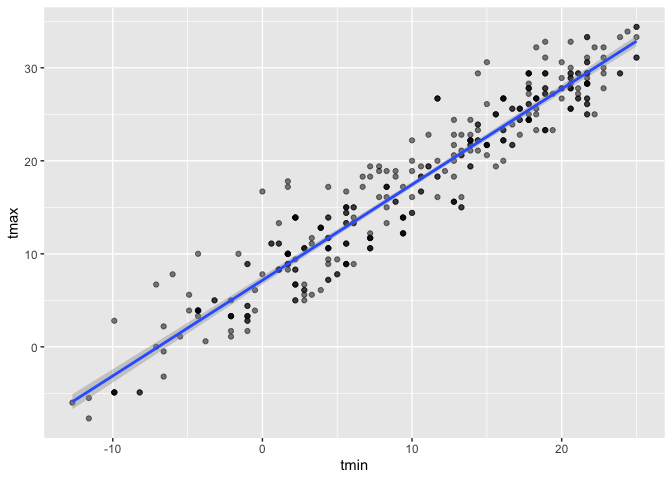
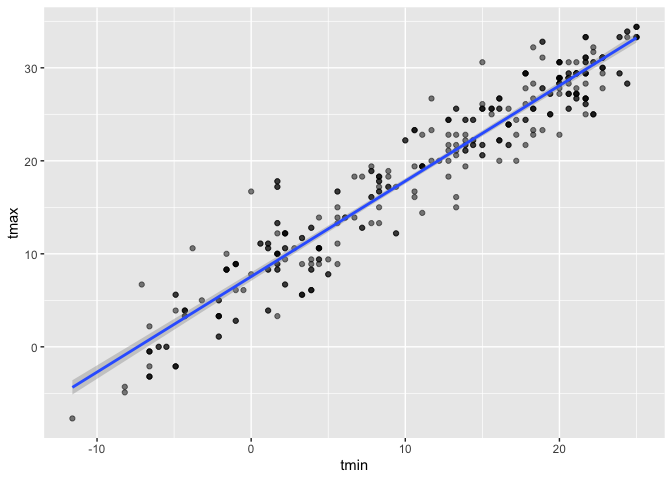
adding more details and comments

diff --git a/p8105_hw6_yg2762.md b/p8105_hw6_yg2762.md
@@ -105,6 +105,9 @@ cv_df_plot
 
 ![](p8105_hw6_yg2762_files/figure-gfm/unnamed-chunk-7-1.png)<!-- -->
 
+According to the cross validation results, `model_3`is the best model
+for the data compared to the other two.
+
 ## Problem 2
 
 ``` r
@@ -132,22 +135,12 @@ weather_df =
     ## file min/max dates: 1869-01-01 / 2021-11-30
 
 ``` r
-lm(tmax ~ tmin, data = weather_df)
-```
-
-    ## 
-    ## Call:
-    ## lm(formula = tmax ~ tmin, data = weather_df)
-    ## 
-    ## Coefficients:
-    ## (Intercept)         tmin  
-    ##       7.209        1.039
-
-``` r
 boot_sample = function(df) {
   sample_frac(df, replace = TRUE)
 }
 ```
+
+### Check for the `boot_sample`
 
 ``` r
 boot_sample(weather_df) %>% 
@@ -158,7 +151,9 @@ boot_sample(weather_df) %>%
 
     ## `geom_smooth()` using formula 'y ~ x'
 
-![](p8105_hw6_yg2762_files/figure-gfm/unnamed-chunk-11-1.png)<!-- -->
+![](p8105_hw6_yg2762_files/figure-gfm/unnamed-chunk-10-1.png)<!-- -->
+
+### Run bootstrap
 
 ``` r
 boot_straps = 
@@ -179,15 +174,25 @@ r_results = boot_straps %>%
 
 ``` r
 r_results %>% 
-  summarise (
-    ci_lower = quantile(r.squared, 0.025), 
-    ci_upper = quantile(r.squared, 0.975))
+  ggplot(aes(x = r.squared)) + geom_density()
 ```
 
-    ## # A tibble: 1 × 2
-    ##   ci_lower ci_upper
-    ##      <dbl>    <dbl>
-    ## 1    0.894    0.927
+![](p8105_hw6_yg2762_files/figure-gfm/unnamed-chunk-13-1.png)<!-- -->
+The distribution of R-squared is relatively normal with a little tail to
+lower values, indicating there might have large outliers in the boot
+strap sample.
+
+``` r
+r_results %>% 
+  summarise (
+    ci_lower = quantile(r.squared, 0.025), 
+    ci_upper = quantile(r.squared, 0.975)) %>% 
+  knitr::kable()
+```
+
+|  ci_lower |  ci_upper |
+|----------:|----------:|
+| 0.8935295 | 0.9275333 |
 
 ``` r
 beta_results = boot_straps %>% 
@@ -199,18 +204,29 @@ beta_results = boot_straps %>%
 ```
 
 ``` r
-b = beta_results %>% 
+log_beta = beta_results %>% 
   select(strap_number,term,estimate) %>% 
   pivot_wider(
     names_from = term,
     values_from = estimate
   ) %>% 
   mutate(log = log(`(Intercept)`* `tmin`))
+
+ggplot(log_beta,aes(x = log)) + geom_density()
 ```
 
+![](p8105_hw6_yg2762_files/figure-gfm/unnamed-chunk-16-1.png)<!-- -->
+
+The distribution of log(beta_0 \*beta) is normal.
+
 ``` r
-c= merge(b, beta_results) %>% 
-  summarize(
-    ci_lower = quantile(log, 0.025), 
-    ci_upper = quantile(log, 0.975))
+log_beta %>% 
+  summarise(
+     ci_lower = quantile(log, 0.025), 
+    ci_upper = quantile(log, 0.975)) %>% 
+  knitr::kable()
 ```
+
+| ci_lower | ci_upper |
+|---------:|---------:|
+| 1.965845 | 2.059279 |
